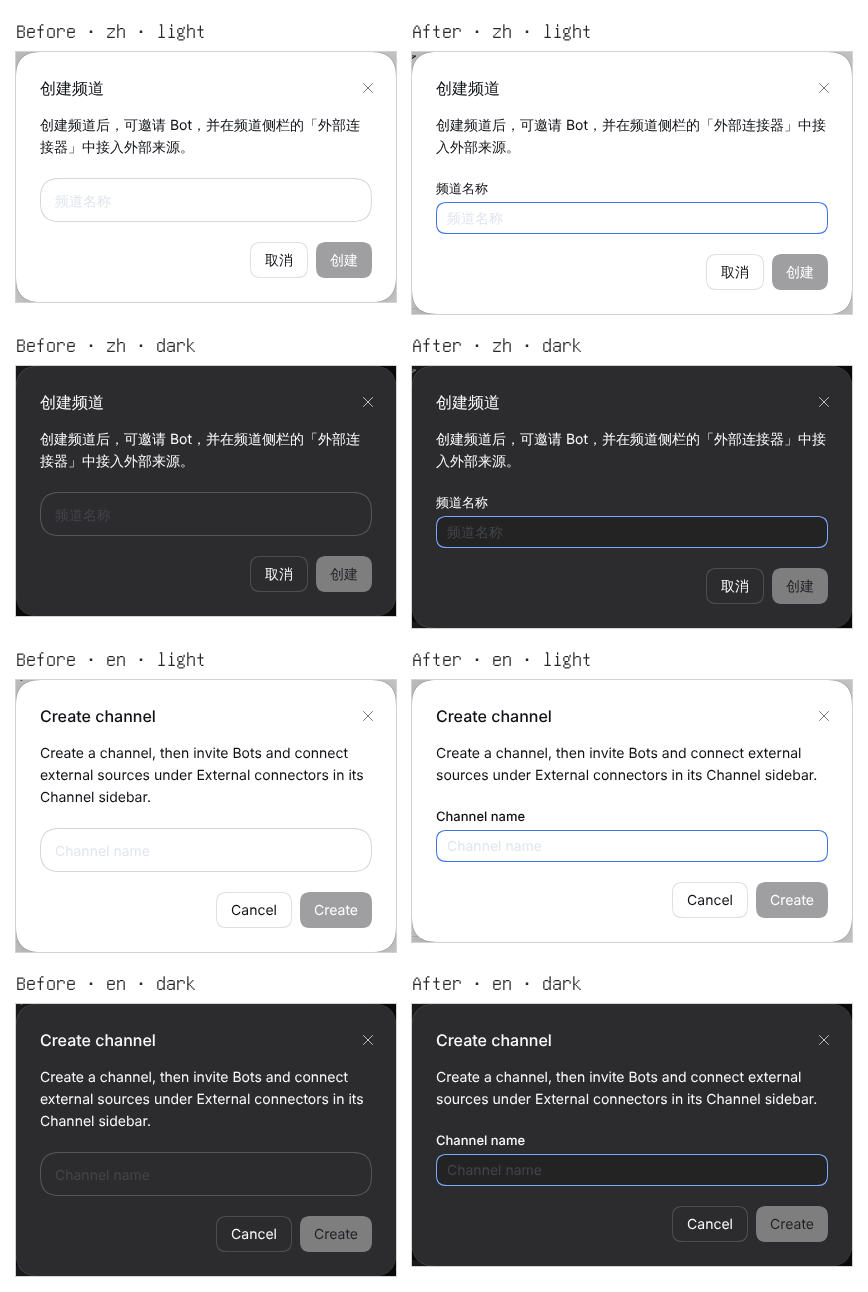
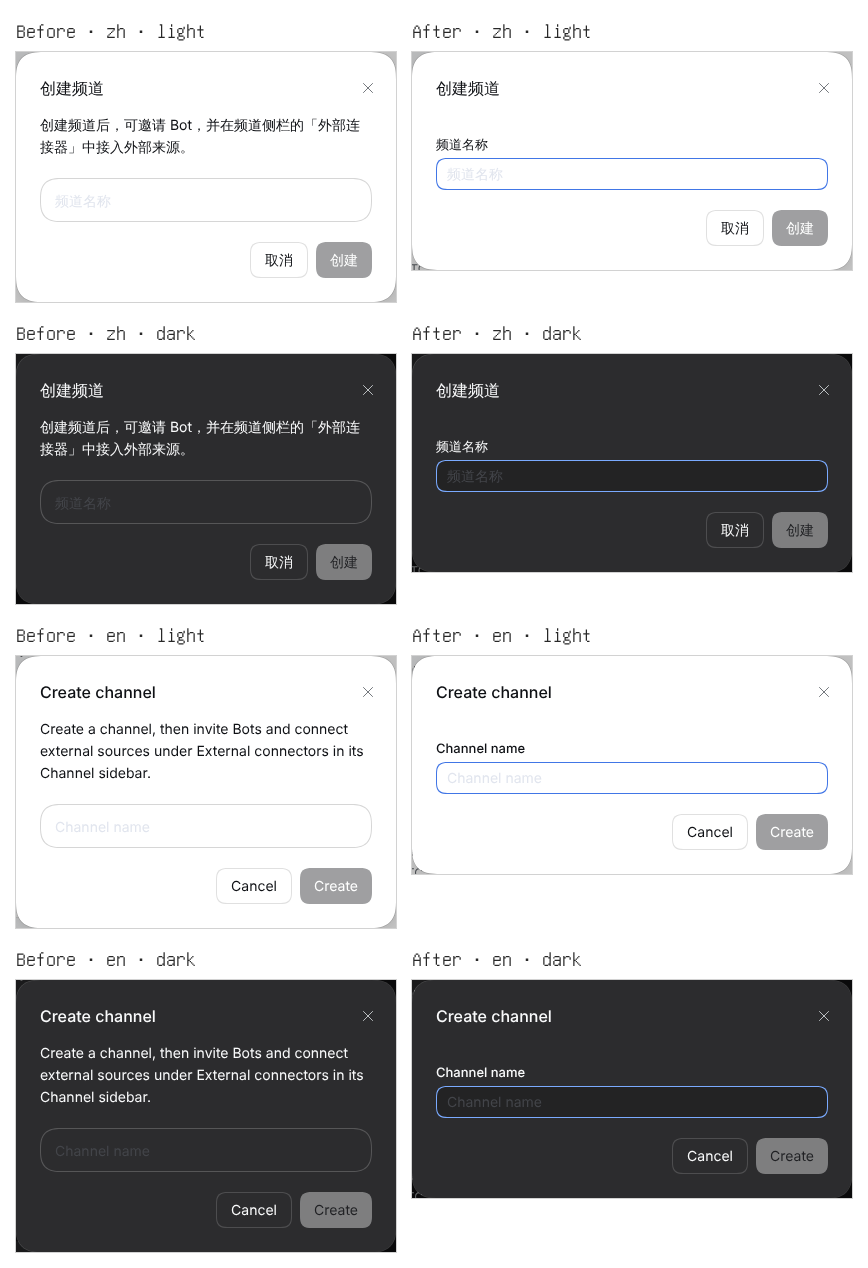
Drop create-dialog descriptions and borders on Bot deletion notices
Issue: #1600
Agent-Task: claude-code/cloud/session_0152zfVCAc6MNB8R8xVq9b76
Claude-Session: https://claude.ai/code/session_0152zfVCAc6MNB8R8xVq9b76

diff --git a/packages/client/src/client/locale.ts b/packages/client/src/client/locale.ts
@@ -977,7 +977,6 @@ export const zh = {
   'section.delete.description':
     '将把“{name}”从名册中移除。其中的频道会移出分组、变为未分组频道，不会被删除。',
   'section.create.title': '创建频道分组',
-  'section.create.description': '新频道分组只影响本机名册的分组显示。',
   'section.name.label': '分组名称',
   'section.name.placeholder': '分组名称',
   'bot.rename.title': '重命名 Bot',
@@ -987,8 +986,6 @@ export const zh = {
   'channel.name.placeholder': '频道名称',
   'channel.create.title': '创建频道',
   'channel.create.inSection': '在「{name}」中创建频道',
-  'channel.create.description':
-    '创建频道后，可邀请 Bot，并在频道侧栏的「外部连接器」中接入外部来源。',
   'create.failed': '创建失败：{error}',
   'bot.create.title': '创建 Bot',
   'bot.create.inSection': '在「{name}」中创建 Bot',
@@ -4183,7 +4180,6 @@ export const en = {
   'section.delete.description':
     'Removes “{name}” from the roster. Its channels leave the section and become unsectioned; they are not deleted.',
   'section.create.title': 'Create channel section',
-  'section.create.description': 'A new section only affects how this roster groups its channels.',
   'section.name.label': 'Section name',
   'section.name.placeholder': 'Section name',
   'bot.rename.title': 'Rename Bot',
@@ -4193,8 +4189,6 @@ export const en = {
   'channel.name.placeholder': 'Channel name',
   'channel.create.title': 'Create channel',
   'channel.create.inSection': 'Create a channel in “{name}”',
-  'channel.create.description':
-    'Create a channel, then invite Bots and connect external sources under External connectors in its Channel sidebar.',
   'create.failed': 'Create failed: {error}',
   'bot.create.title': 'Create Bot',
   'bot.create.inSection': 'Create a Bot in “{name}”',

diff --git a/packages/client/src/client/section-management.tsx b/packages/client/src/client/section-management.tsx
@@ -51,8 +51,17 @@ export function sectionMenuItems(
     { id: 'move-up', label: t('section.moveUp'), disabled: !canMoveUp },
     { id: 'move-down', label: t('section.moveDown'), disabled: !canMoveDown },
     { type: 'separator', id: 'section-action-separator' },
-    { id: 'rename', label: t('section.rename'), icon: <IconEditOutlineRegular /> },
-    { id: 'delete', label: t('section.delete'), icon: <IconTrashOutlineRegular />, danger: true },
+    {
+      id: 'rename',
+      label: t('section.rename'),
+      icon: <IconEditOutlineRegular />,
+    },
+    {
+      id: 'delete',
+      label: t('section.delete'),
+      icon: <IconTrashOutlineRegular />,
+      danger: true,
+    },
   ];
 }
 
@@ -212,7 +221,6 @@ export function CreateSectionModal({
   return (
     <FormDialog
       title={t('section.create.title')}
-      description={t('section.create.description')}
       labels={dialogLabels(t)}
       submitLabel={t('common.create')}
       submitDisabled={trimmed.length === 0}
@@ -267,7 +275,6 @@ export function CreateChannelModal({
           ? t('channel.create.title')
           : t('channel.create.inSection', { name: sectionName })
       }
-      description={t('channel.create.description')}
       labels={dialogLabels(t)}
       submitLabel={t('common.create')}
       submitDisabled={trimmed.length === 0}

diff --git a/packages/client/src/client/ds/callout.tsx b/packages/client/src/client/ds/callout.tsx
@@ -22,6 +22,7 @@ const styles = stylex.create({
   muted: { borderColor: color.border, backgroundColor: color.surface },
   warning: { borderColor: color.warningEdge, backgroundColor: color.warningSoft },
   danger: { borderColor: color.dangerEdge, backgroundColor: color.dangerSoft },
+  borderless: { borderWidth: 0 },
   title: {
     margin: 0,
     fontSize: text.bodySize,
@@ -38,17 +39,23 @@ export function Callout({
   tone = 'muted',
   title,
   role,
+  borderless = false,
   children,
   data,
 }: {
   readonly tone?: CalloutTone;
   readonly title?: ReactNode;
   readonly role?: 'alert' | 'status' | 'note';
+  readonly borderless?: boolean;
   readonly children?: ReactNode;
   readonly data?: Readonly<Record<`data-${string}`, string>>;
 }): ReactElement {
   return (
-    <div role={role} {...data} {...stylex.props(styles.callout, styles[tone])}>
+    <div
+      role={role}
+      {...data}
+      {...stylex.props(styles.callout, styles[tone], borderless && styles.borderless)}
+    >
       {title === undefined ? null : (
         <p
           {...stylex.props(

diff --git a/packages/client/src/client/personabot-deletion.tsx b/packages/client/src/client/personabot-deletion.tsx
@@ -86,6 +86,7 @@ function DeletionNotice({
   return (
     <Callout
       tone={tone ?? 'muted'}
+      borderless
       title={
         <span {...stylex.props(styles.noticeTitle)}>
           <span
